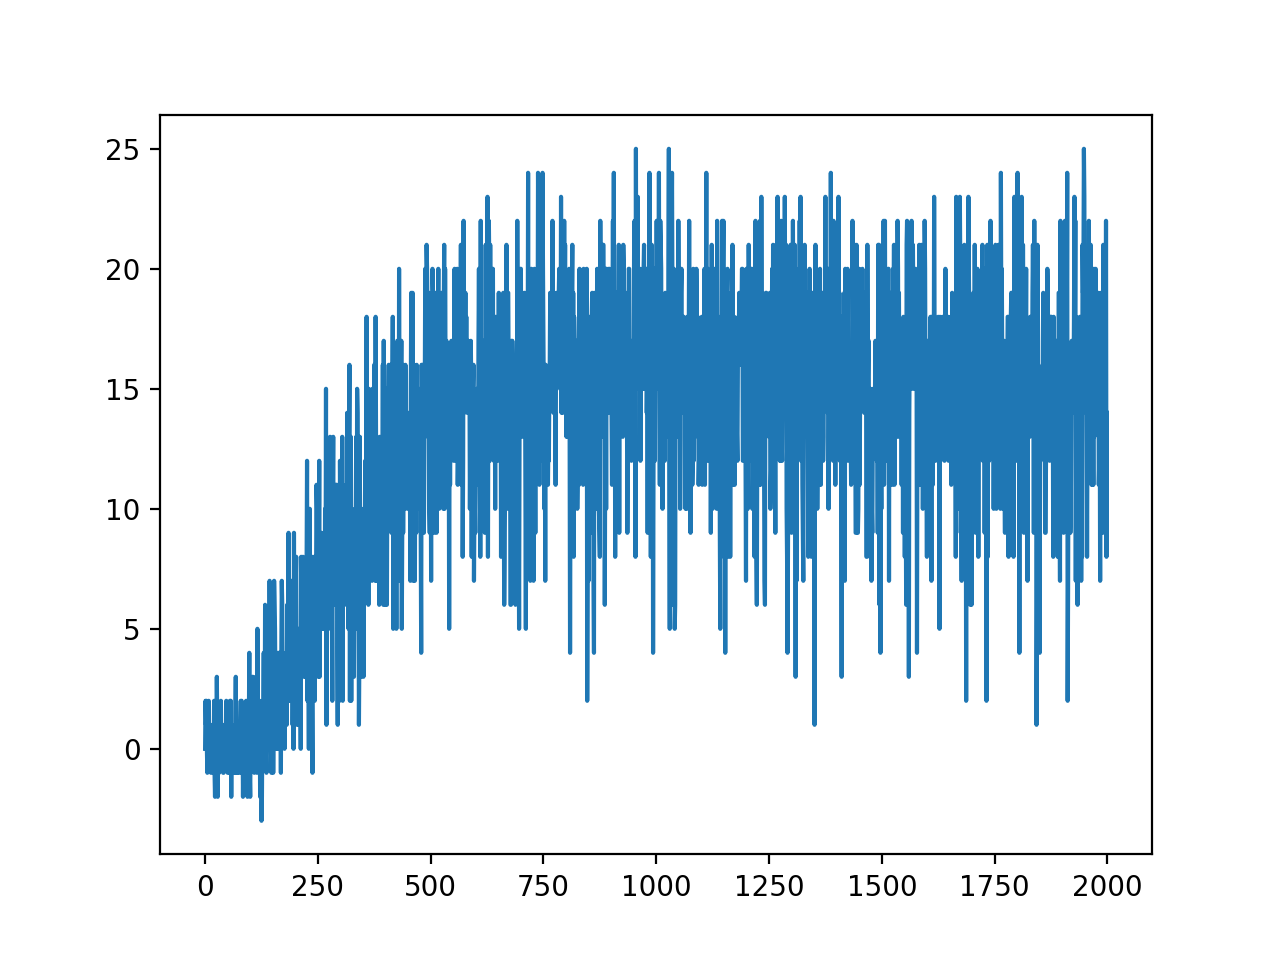
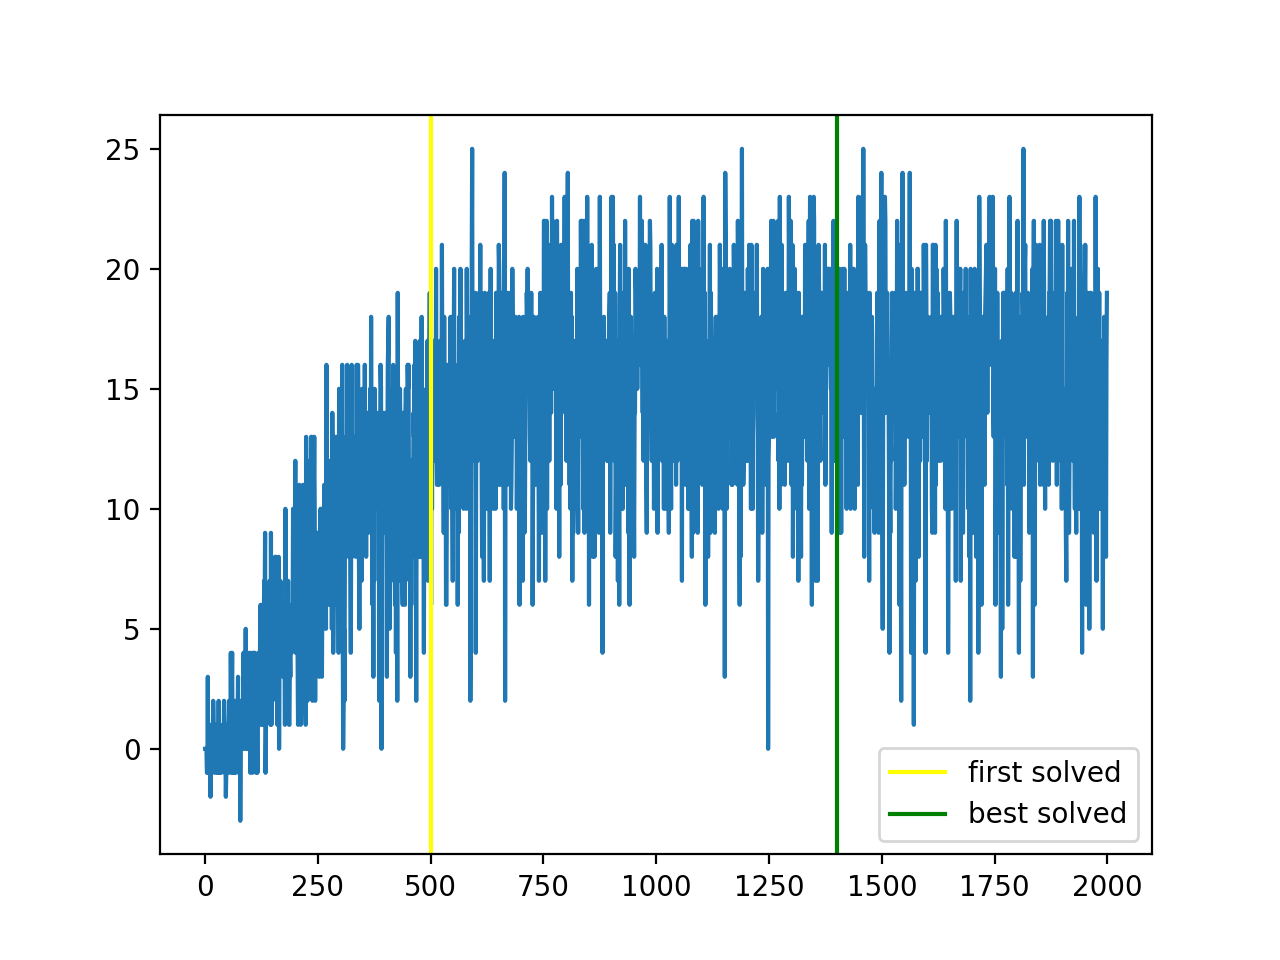
Update scores graph and agent report

Changed region(s): [[0.1562, 0.1562, 0.9062, 0.875], [0.6875, 0.8438, 0.7188, 0.875]]

diff --git a/p1_navigation/Report.md b/p1_navigation/Report.md
@@ -2,6 +2,9 @@
 
 ## Learning Algorithm
 
+The code uses Deep Q-Learning Algorithm for training the model. The implemenation is wrapped within the Agent class (i.e., `agent.py`)
+
+
 ### Model architecture
 
 Model architecture has been chosen based on the mean per 100 sequential episode scores.
